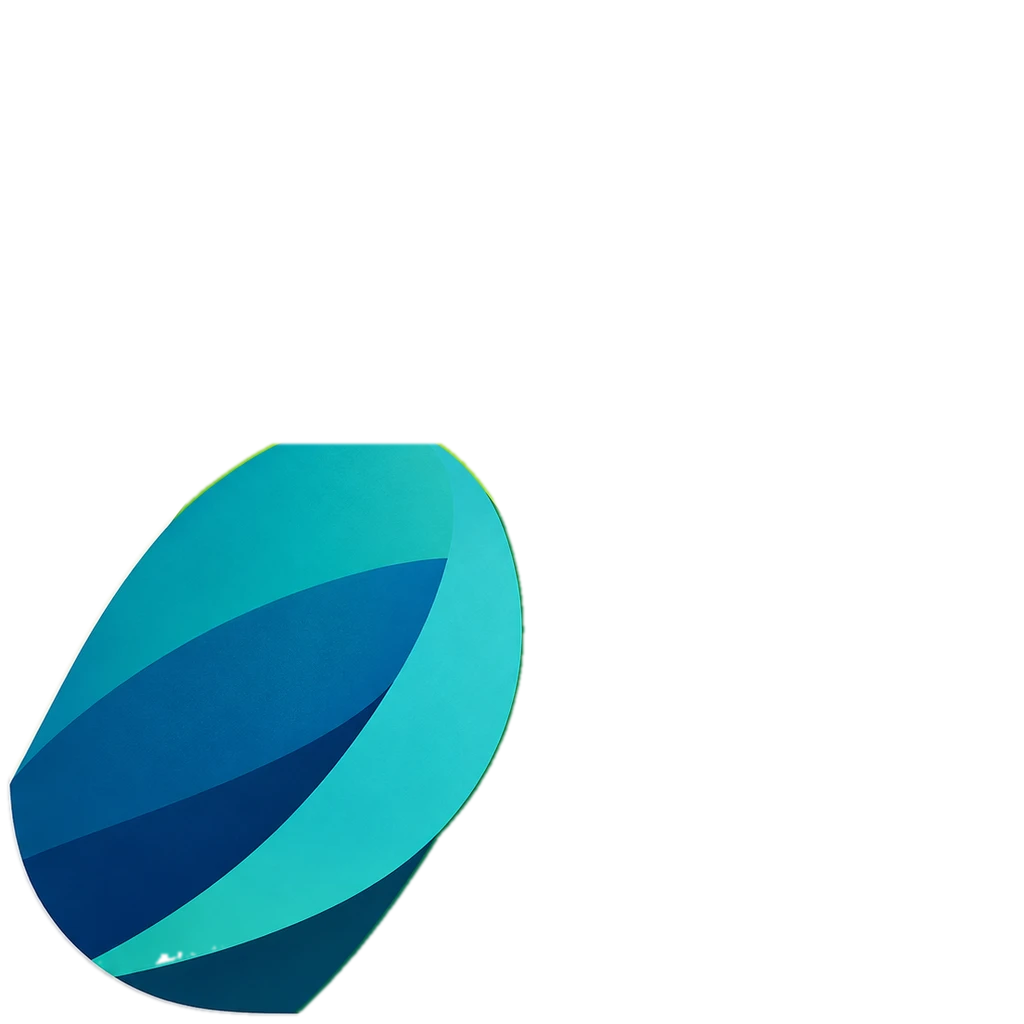
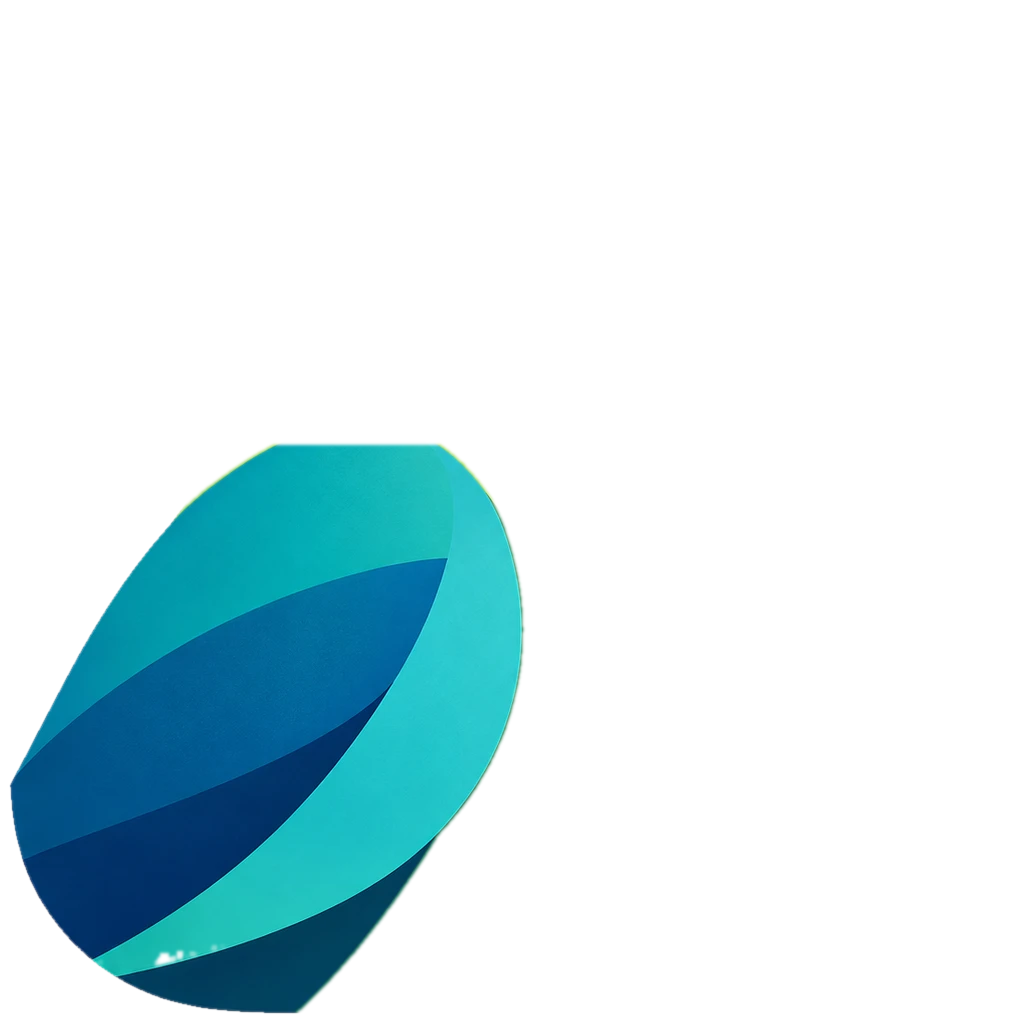
Quick intro; remove try-it viewer

diff --git a/index.html b/index.html
@@ -94,27 +94,6 @@
   [data-reveal] { opacity: 0; transform: translateY(26px); transition: opacity .9s var(--ease), transform .9s var(--ease); transition-delay: var(--d, 0ms); }
   [data-reveal].in { opacity: 1; transform: none; }
 
-  /* Try-it viewer */
-  .viewer { margin-top: 48px; background: var(--stage); border-radius: 22px; padding: 10px; color: #e9e4d8; box-shadow: 0 40px 80px -40px rgba(30,25,10,.5); }
-  .vbar { display: flex; align-items: center; gap: 12px; height: 40px; padding: 0 10px; font-size: 13px; }
-  .dots { display: flex; gap: 7px; } .dots i { width: 12px; height: 12px; border-radius: 50%; background: #ff5f57; } .dots i:nth-child(2) { background: #febc2e; } .dots i:nth-child(3) { background: #28c840; }
-  .vname { font-weight: 600; } .vinfo { color: #8f897c; font: 12px "Geist Mono", monospace; }
-  .vtools { margin-left: auto; display: flex; gap: 4px; }
-  .vtools button { width: 32px; height: 28px; border: 0; border-radius: 8px; background: transparent; color: #cfc9bb; cursor: pointer; font-size: 16px; transition: background .2s; }
-  .vtools button:hover { background: rgba(255,255,255,.08); }
-  .vstage { position: relative; height: clamp(320px, 52vw, 620px); overflow: hidden; border-radius: 12px; background: #0e0d0b; cursor: grab; touch-action: none; outline: none; }
-  .vstage.drag { cursor: grabbing; }
-  .vstage img { position: absolute; left: 0; top: 0; max-width: none; transform-origin: 0 0; will-change: transform; user-select: none; -webkit-user-drag: none; }
-  .vstage .smooth { transition: transform .35s var(--ease); }
-  .vhint { position: absolute; left: 50%; bottom: 14px; translate: -50% 0; padding: 8px 14px; border-radius: 999px; background: rgba(0,0,0,.6); backdrop-filter: blur(8px);
-           font: 12px "Geist Mono", monospace; color: #e9e4d8; pointer-events: none; transition: opacity .4s; white-space: nowrap; }
-  .vstage.used .vhint { opacity: 0; }
-  .thumbs { display: flex; gap: 8px; padding: 10px 4px 2px; overflow-x: auto; }
-  .thumbs button { flex: none; width: 92px; height: 62px; padding: 0; border: 2px solid transparent; border-radius: 9px; overflow: hidden; cursor: pointer; background: #000; opacity: .55; transition: opacity .25s, border-color .25s, transform .3s var(--spring); }
-  .thumbs button:hover { opacity: .9; transform: translateY(-2px); }
-  .thumbs button.on { opacity: 1; border-color: var(--yellow); }
-  .thumbs img { width: 100%; height: 100%; object-fit: cover; }
-
   .grid { display: grid; grid-template-columns: repeat(3, 1fr); gap: 16px; margin-top: 28px; }
   .feat { padding: 22px; border-radius: 18px; background: var(--card); border: 1px solid var(--line); transition: transform .4s var(--spring), box-shadow .3s; }
   .feat:hover { transform: translateY(-4px); box-shadow: 0 20px 40px -24px rgba(30,25,10,.35); }
@@ -183,12 +162,12 @@
   .lid::after { content: ""; position: absolute; left: 12%; right: 12%; bottom: 0; height: 9%; border-radius: 50%; background: #c9a516; }
   .blogo { position: relative; width: 30px; height: 30px; flex: none; }
   .blogo img { width: 100%; height: 100%; }
-  #intro { position: fixed; inset: 0; z-index: 60; display: grid; place-items: center; background: var(--bg); }
-  #intro .bird { position: relative; width: min(52vmin, 440px); aspect-ratio: 1; border-radius: 22.5%; overflow: hidden; cursor: pointer;
-                 box-shadow: 0 40px 80px -30px rgba(60,50,10,.35); }
-  #intro .bird img { position: absolute; inset: 0; width: 100%; height: 100%; user-select: none; -webkit-user-drag: none; }
+  #intro { position: fixed; inset: 0; z-index: 60; pointer-events: none; }
+  #intro .bird { position: absolute; width: 240px; aspect-ratio: 1; }
+  #intro .plate { position: absolute; inset: 0; border-radius: 22.5%; background: linear-gradient(160deg, #fdfaf0, #f3f1e6);
+                  box-shadow: 0 30px 60px -24px rgba(60,50,10,.35), inset 0 0 0 1px rgba(0,0,0,.04); transform: scale(0); opacity: 0; }
+  #intro .bird img { position: absolute; inset: 0; width: 100%; height: 100%; }
   #intro .wing { transform-origin: 46.9% 45.9%; }
-  #intro .skip { position: absolute; bottom: 28px; font: 12px "Geist Mono", monospace; color: var(--muted); opacity: .7; }
 
   @media (max-width: 860px) {
     .links { display: none; } nav .btn { margin-left: auto; }
@@ -223,7 +202,7 @@
       <div class="cta">
         <!-- These links always point at the newest release, even without JavaScript. -->
         <a class="btn go pkg" href="https://github.com/mist1985/MikiViewer/releases/latest/download/MikiViewer.pkg">Download for Mac <small>free</small></a>
-        <a class="btn" href="#viewer">Try it on this page</a>
+        <a class="btn" href="#viewer">See what it does</a>
       </div>
       <p class="meta">macOS 26 or later · Apple silicon</p>
     </div>
@@ -231,18 +210,12 @@
   <div class="stage-wrap"><div class="stage" id="heroStage"><img src="media/app-hero.webp" alt="MikiViewer showing a group photo" width="1600" height="1028"></div></div>
 </header>
 
-<section id="viewer" data-say="Go on, zoom in!">
+<section id="viewer">
   <div class="wrap">
     <div class="intro" data-reveal>
       <span class="eyebrow">The viewer</span>
-      <h2>Made for looking. <em>Try it right here.</em></h2>
-      <p>This little viewer works like the real one: double-click or pinch to zoom, drag to look around, and use the arrow keys to move between pictures.</p>
-    </div>
-    <div class="viewer" data-reveal>
-      <div class="vbar"><span class="dots"><i></i><i></i><i></i></span><span class="vname" id="vname">rooftop.jpg</span><span class="vinfo" id="vinfo"></span>
-        <span class="vtools"><button id="zout" aria-label="Zoom out">−</button><button id="zfit" aria-label="Zoom to fit">⤢</button><button id="zin" aria-label="Zoom in">+</button></span></div>
-      <div class="vstage" id="vstage" tabindex="0" aria-label="Image viewer demo"><img id="vimg" alt="" draggable="false"><span class="vhint">double-click to zoom · drag · ← → to switch</span></div>
-      <div class="thumbs" id="thumbs"></div>
+      <h2>Made for looking. <em>Nothing in the way.</em></h2>
+      <p>Open a picture and it’s simply there, sharp and fast. Everything else stays out of sight until you reach for it.</p>
     </div>
     <div class="grid">
       <div class="feat" data-reveal><h3>Opens instantly</h3><p>Double-click any image and it’s there. No library to import into, nothing to organise first.</p></div>
@@ -357,14 +330,14 @@
   </div>
 </footer>
 
-<!-- Miki's hello: the icon zooms in, winks, flaps its wing, then shrinks into the logo in the nav. -->
+<!-- Miki's hello: the bird lands with a few wing beats and a wink, becomes the app icon, and settles into the nav. It never blocks the page. -->
 <div id="intro" aria-hidden="true" hidden>
   <div class="bird" id="ibird">
-    <img src="media/miki-base.webp" alt="" draggable="false">
-    <img class="wing" src="media/miki-wing.webp" alt="" draggable="false">
+    <span class="plate"></span>
+    <img src="media/miki-body.webp" alt="">
+    <img class="wing" src="media/miki-wing.webp" alt="">
     <span class="eye"><span class="pupil"></span><span class="lid"></span></span>
   </div>
-  <span class="skip">click to skip</span>
 </div>
 
 <script>
@@ -393,44 +366,33 @@ const intro = $("#intro"), ibird = $("#ibird"), iwing = intro.querySelector(".wi
 const shut = [{ transform: "scaleY(0)" }, { transform: "scaleY(1)" }, { transform: "scaleY(0)" }];
 const blink = root => root.querySelector(".lid").animate(shut, { duration: 200, easing: "ease-in-out" });
 const wait = ms => new Promise(r => setTimeout(r, ms));
-let skipped = false;
 async function hello() {
-  const seen = (() => { try { return sessionStorage.getItem("miki"); } catch { return null; } })();
-  if (reduce || seen) { document.body.classList.add("ready"); return; }
-  try { sessionStorage.setItem("miki", "1"); } catch {}
-  intro.hidden = false; document.documentElement.style.overflow = "hidden";
-  const skip = () => { skipped = true; };
-  ["pointerdown", "keydown", "wheel", "touchstart"].forEach(t => addEventListener(t, skip, { once: true, passive: true }));
-  const spring = "cubic-bezier(.34,1.56,.64,1)";
-  // 1. Zoom in.
-  await ibird.animate([{ transform: "scale(.25)", opacity: 0 }, { transform: "scale(1.05)", opacity: 1, offset: .65 }, { transform: "none", opacity: 1 }],
-                      { duration: 850, easing: "cubic-bezier(.2,.8,.2,1)", delay: 150, fill: "backwards" }).finished;
-  // 2. Wink, head tipped towards you.
-  if (!skipped) {
-    ibird.querySelector(".lid").animate([{ transform: "scaleY(0)" }, { transform: "scaleY(1)", offset: .25 }, { transform: "scaleY(1)", offset: .7 }, { transform: "scaleY(0)" }], { duration: 620, easing: "ease-in-out" });
-    await ibird.animate([{ transform: "none" }, { transform: "rotate(-6deg) scale(1.03)", offset: .35 }, { transform: "rotate(-6deg) scale(1.03)", offset: .7 }, { transform: "none" }],
-                        { duration: 850, easing: spring }).finished;
-  }
-  // 3. Flap the wing, lifting a little with each beat.
-  if (!skipped) {
-    ibird.animate([{ transform: "none" }, { transform: "translateY(-4%)" }, { transform: "translateY(-2%)" }, { transform: "translateY(-5%)" }, { transform: "none" }], { duration: 1100, easing: "ease-in-out" });
-    await iwing.animate([{ transform: "rotate(0)" }, { transform: "rotate(24deg)" }, { transform: "rotate(-4deg)" }], { duration: 220, iterations: 5, easing: "ease-in-out" }).finished;
-    await wait(120);
-  }
-  // 4. Shrink into the logo in the nav while the page fades in behind.
   document.body.classList.add("ready");
-  const from = ibird.getBoundingClientRect(), to = blogo.getBoundingClientRect();
-  const dx = to.left + to.width / 2 - (from.left + from.width / 2), dy = to.top + to.height / 2 - (from.top + from.height / 2);
-  intro.animate([{ backgroundColor: getComputedStyle(intro).backgroundColor }, { backgroundColor: "transparent" }], { duration: 700, easing: "ease-out", fill: "forwards" });
-  intro.querySelector(".skip").remove();
-  await ibird.animate([{ transform: "none", borderRadius: "22.5%" }, { transform: `translate(${dx}px, ${dy}px) scale(${to.width / from.width})`, borderRadius: "22.5%" }],
-                      { duration: 750, easing: "cubic-bezier(.6,0,.2,1)", fill: "forwards" }).finished;
-  intro.remove(); document.documentElement.style.overflow = "";
-  blogo.animate([{ transform: "scale(1.35)" }, { transform: "none" }], { duration: 500, easing: spring });
-  setTimeout(() => blink(blogo), 450);
+  if (reduce) return;
+  const to = blogo.getBoundingClientRect(), size = Math.min(240, innerWidth * .4);
+  if (to.bottom < 0) return;                                  // opened partway down the page: just show the logo
+  ibird.style.width = size + "px";
+  ibird.style.left = innerWidth * (innerWidth < 860 ? .5 : .72) - size / 2 + "px";
+  ibird.style.top = innerHeight * .62 - size / 2 + "px";
+  intro.hidden = false; blogo.style.opacity = 0;
+  const spring = "cubic-bezier(.34,1.56,.64,1)", plate = ibird.querySelector(".plate");
+  // 1. Land: drop in with quick wing beats, then a little squash.
+  iwing.animate([{ transform: "rotate(0)" }, { transform: "rotate(28deg)" }, { transform: "rotate(-4deg)" }], { duration: 160, iterations: 3, easing: "ease-in-out" });
+  await ibird.animate([{ transform: "translateY(-55%) scale(.8)", opacity: 0 }, { transform: "translateY(4%) scale(1.02, .96)", opacity: 1, offset: .75 }, { transform: "none", opacity: 1 }],
+                      { duration: 520, easing: "cubic-bezier(.2,.8,.2,1)", fill: "backwards" }).finished;
+  // 2. Wink while the icon's tile grows in behind it.
+  ibird.querySelector(".lid").animate([{ transform: "scaleY(0)" }, { transform: "scaleY(1)", offset: .3 }, { transform: "scaleY(1)", offset: .65 }, { transform: "scaleY(0)" }], { duration: 380 });
+  await plate.animate([{ transform: "scale(.4)", opacity: 0 }, { transform: "none", opacity: 1 }], { duration: 380, easing: spring, fill: "forwards" }).finished;
+  // 3. Into the nav.
+  const from = ibird.getBoundingClientRect(), now = blogo.getBoundingClientRect();
+  const dx = now.left + now.width / 2 - (from.left + from.width / 2), dy = now.top + now.height / 2 - (from.top + from.height / 2);
+  await ibird.animate([{ transform: "none" }, { transform: `translate(${dx}px, ${dy}px) scale(${now.width / from.width})` }],
+                      { duration: 520, easing: "cubic-bezier(.6,0,.2,1)", fill: "forwards" }).finished;
+  blogo.style.opacity = ""; intro.remove();
+  blogo.animate([{ transform: "scale(1.3)" }, { transform: "none" }], { duration: 420, easing: spring });
 }
 hello();
-ibird.addEventListener("click", () => { skipped = true; });
+hello();
 // The little logo keeps watching the pointer and blinks now and then.
 addEventListener("pointermove", e => {
   const r = blogo.getBoundingClientRect(), ex = r.left + r.width * .66, ey = r.top + r.height * .252;
@@ -457,64 +419,6 @@ function onScroll() {
 addEventListener("scroll", () => requestAnimationFrame(onScroll), { passive: true });
 addEventListener("resize", onScroll);
 onScroll();
-
-/* ---------- Try-it viewer ---------- */
-const photos = [
-  { src: "media/g-group.webp", name: "rooftop.jpg" }, { src: "media/g-sign.webp", name: "bakery.jpg" },
-  { src: "media/g-bird.webp", name: "budgie.jpg" }, { src: "media/g-card.webp", name: "desk.jpg" }, { src: "media/g-note.webp", name: "notes.png" }
-];
-const vstage = $("#vstage"), vimg = $("#vimg"), thumbs = $("#thumbs");
-let idx = 0, sc = 1, tx = 0, ty = 0, fit = 1;
-photos.forEach((p, i) => {
-  const b = document.createElement("button"); b.setAttribute("aria-label", p.name);
-  b.innerHTML = `<img src="${p.src}" alt="" loading="lazy">`; b.onclick = () => show(i); thumbs.append(b);
-});
-function apply(smooth) {
-  vimg.classList.toggle("smooth", !!smooth);
-  vimg.style.transform = `translate(${tx}px, ${ty}px) scale(${sc})`;
-  $("#vinfo").textContent = `${vimg.naturalWidth} × ${vimg.naturalHeight} px — ${Math.round(sc * 100)}%`;
-}
-function fitView(smooth) {
-  const W = vstage.clientWidth, H = vstage.clientHeight;
-  fit = Math.min(W / vimg.naturalWidth, H / vimg.naturalHeight);
-  sc = fit; tx = (W - vimg.naturalWidth * sc) / 2; ty = (H - vimg.naturalHeight * sc) / 2; apply(smooth);
-}
-function zoomAt(f, cx, cy, smooth) {
-  const ns = clamp(sc * f, fit * .5, 4);
-  tx = cx - (cx - tx) * ns / sc; ty = cy - (cy - ty) * ns / sc; sc = ns; apply(smooth);
-}
-function show(i) {
-  idx = (i + photos.length) % photos.length;
-  [...thumbs.children].forEach((b, j) => b.classList.toggle("on", j === idx));
-  const swap = () => new Promise(res => { vimg.onload = () => { fitView(); res(); }; vimg.src = photos[idx].src; $("#vname").textContent = photos[idx].name; });
-  if (document.startViewTransition && !reduce) document.startViewTransition(swap); else swap();
-}
-const used = () => vstage.classList.add("used");
-vstage.addEventListener("dblclick", e => {
-  used(); const r = vstage.getBoundingClientRect();
-  if (sc > fit * 1.05) fitView(true); else zoomAt(2.4, e.clientX - r.left, e.clientY - r.top, true);
-});
-vstage.addEventListener("wheel", e => {
-  if (!e.ctrlKey && document.activeElement !== vstage) return;   // plain scrolling keeps scrolling the page
-  e.preventDefault(); used(); const r = vstage.getBoundingClientRect();
-  zoomAt(Math.exp(-e.deltaY * (e.ctrlKey ? .012 : .002)), e.clientX - r.left, e.clientY - r.top);
-}, { passive: false });
-let drag = null;
-vstage.addEventListener("pointerdown", e => { drag = { x: e.clientX - tx, y: e.clientY - ty }; vstage.setPointerCapture(e.pointerId); vstage.classList.add("drag"); });
-vstage.addEventListener("pointermove", e => { if (!drag) return; used(); tx = e.clientX - drag.x; ty = e.clientY - drag.y; apply(); });
-vstage.addEventListener("pointerup", () => { drag = null; vstage.classList.remove("drag"); });
-vstage.addEventListener("keydown", e => {
-  const W = vstage.clientWidth / 2, H = vstage.clientHeight / 2;
-  if (e.key === "ArrowRight") show(idx + 1); else if (e.key === "ArrowLeft") show(idx - 1);
-  else if (e.key === "+" || e.key === "=") zoomAt(1.4, W, H, true); else if (e.key === "-") zoomAt(1 / 1.4, W, H, true);
-  else if (e.key === "0") fitView(true); else return;
-  e.preventDefault(); used();
-});
-$("#zin").onclick = () => { used(); zoomAt(1.4, vstage.clientWidth / 2, vstage.clientHeight / 2, true); };
-$("#zout").onclick = () => { used(); zoomAt(1 / 1.4, vstage.clientWidth / 2, vstage.clientHeight / 2, true); };
-$("#zfit").onclick = () => fitView(true);
-addEventListener("resize", () => fitView());
-show(0);
 
 /* ---------- Selecting text on the sign ---------- */
 document.addEventListener("selectionchange", () => {
